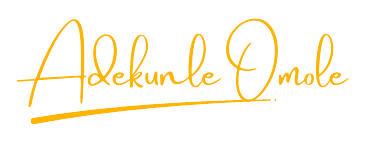
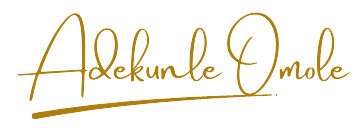
update

Changed region(s): [[0.0303, 0.0902, 0.9697, 0.9023]]

diff --git a/index.html b/index.html
@@ -75,11 +75,11 @@
             </p>
 
             <div class="hero-icons">
-                <svg xmlns="http://www.w3.org/2000/svg" viewBox="0 0 24 24"><path fill="#ffb400" d="M23.871 20.268c.085-.262.129-.474.129-.635V3.178c0-.128-.044-.205-.129-.231a1.1 1.1 0 0 0-.318-.04h-8.04V4.39h2.37v2.348h-2.37v.748h2.37v2.351h-2.37v.769h2.37v2.223h-2.37v.891h2.37v2.228h-2.37v.891h2.37v2.241h-2.37v1.635h8.04c.127-.039.233-.188.318-.447zm-1.361-1.19h-3.857v-2.239h3.857v2.239zm0-3.13h-3.857v-2.229h3.857v2.229zm0-3.12h-3.857v-2.213h3.857v2.213zm0-2.992h-3.857V7.488h3.857v2.348zm0-3.111h-3.857V4.392h3.857v2.333zM14.16.031 0 2.536v18.552l14.16 2.443V.031zM8.393 16.57c-.054-.146-.308-.764-.758-1.858-.449-1.093-.72-1.729-.799-1.911h-.025l-1.519 3.605-2.03-.137 2.408-4.488-2.205-4.487 2.07-.109 1.368 3.512h.027l1.545-3.671 2.139-.135-2.547 4.857 2.625 4.955-2.299-.133z" class="color217345 svgShape"></path></svg>
-                <svg xmlns="http://www.w3.org/2000/svg" viewBox="0 0 32 32"><path d="M28 12.378v10.386a2.982 2.982 0 0 1-1.423 2.552 2.988 2.988 0 0 1-2.919.132l-1.105-.553a1 1 0 0 1 .895-1.789l1.105.553c.451.226.83.044.973-.043a.993.993 0 0 0 .474-.852V12.378c0-.412-.259-.788-.644-.935l-17-6.476a.987.987 0 0 0-.923.112.987.987 0 0 0-.433.823V15a1 1 0 0 1-2 0V5.902a3 3 0 0 1 4.068-2.803l17 6.476A3.016 3.016 0 0 1 28 12.378zM18 11.5a1.5 1.5 0 0 0-1.5 1.5v15a1.5 1.5 0 1 0 3 0V13a1.5 1.5 0 0 0-1.5-1.5zm-4 2a1.5 1.5 0 0 0-1.5 1.5v11a1.5 1.5 0 1 0 3 0V15a1.5 1.5 0 0 0-1.5-1.5zm-4 2A1.5 1.5 0 0 0 8.5 17v7a1.5 1.5 0 1 0 3 0v-7a1.5 1.5 0 0 0-1.5-1.5zm-4 2A1.5 1.5 0 0 0 4.5 19v3a1.5 1.5 0 1 0 3 0v-3A1.5 1.5 0 0 0 6 17.5z" fill="#ffb400" class="color000 svgShape"></path></svg>
-                <svg xmlns="http://www.w3.org/2000/svg" viewBox="0 0 512 512"><path d="M242.69 340.3h26.62v-72.6h67v-25.82h-67v-72.6h-26.62v72.6h-66.15v25.82h66.15zM119.26 445.18h22.59v-64.54h59.7v-20.17h-59.7v-65.34h-22.59v65.34h-59.7v20.17h59.7zM370.15 212h22.59v-64.5h60.5v-19.37h-60.5V62.79h-22.59v65.34h-59.7v19.37h59.7zM246.72 496h19.36v-46h41.15v-16.92h-41.15v-46h-19.36v46h-40.33V450h40.33zM120.07 212h21v-65.31h60.51v-18.56H141V62.79h-21v65.34H59.56v18.56h60.51zm315.65 96.84h19.36v-45.18H496v-17.74h-40.92v-45.18h-19.36v45.18h-40.33v17.74h40.33z" fill="#ffb400" class="color000 svgShape"></path><path fill-rule="evenodd" d="M370.15 445.18h22.59v-64.54h60.5v-20.17h-60.5v-65.34h-22.59v65.34h-59.7v20.17h59.7Z" fill="#ffb400" class="color000 svgShape"></path><path d="M307 74.08V60.37h-40.34V16h-14.52v44.37h-40.33v13.71h40.33v44.37h14.52V74.08ZM56.11 305.61h14.52v-44.37H111v-13.71H70.63V204H56.11v43.56H16v14.52l40.11-.08Z" fill="#ffb400" class="color000 svgShape"></path></svg>
-                <svg xmlns="http://www.w3.org/2000/svg" viewBox="0 0 24 24"><path d="m11.727 0c-.967.001-1.914.086-2.834.248l.098-.014c-2.423.428-2.862 1.324-2.862 2.976v2.182h5.726v.727h-7.874c-.02 0-.043-.001-.066-.001-1.737 0-3.184 1.239-3.507 2.881l-.004.023c-.256.872-.403 1.874-.403 2.91s.147 2.038.422 2.985l-.019-.076c.407 1.695 1.379 2.902 3.04 2.902h1.969v-2.616c.045-1.953 1.622-3.523 3.574-3.557h.003 5.719c1.584-.013 2.863-1.299 2.863-2.885 0-.009 0-.017 0-.026v.001-5.452c-.104-1.561-1.314-2.81-2.848-2.975l-.014-.001c-.866-.149-1.863-.234-2.879-.234-.036 0-.071 0-.107 0h.005zm-3.096 1.755h.017c.603 0 1.091.489 1.091 1.091s-.489 1.091-1.091 1.091c-.601 0-1.089-.487-1.091-1.088 0-.002 0-.005 0-.008 0-.596.48-1.08 1.074-1.086h.001z" fill="#ffb400" class="color000 svgShape"></path><path d="m18.287 6.119v2.542c-.022 1.977-1.604 3.578-3.572 3.63h-.005-5.719c-1.584.033-2.856 1.322-2.862 2.909v5.453c0 1.551 1.349 2.464 2.862 2.91.855.277 1.839.437 2.86.437s2.005-.16 2.927-.456l-.068.019c1.44-.417 2.862-1.258 2.862-2.91v-2.184h-5.719v-.727h8.582c1.664 0 2.284-1.161 2.863-2.902.28-.87.441-1.871.441-2.91s-.161-2.04-.46-2.979l.019.07c-.411-1.656-1.2-2.902-2.863-2.902zm-3.216 13.807h.017c.603 0 1.091.489 1.091 1.091s-.489 1.091-1.091 1.091c-.603 0-1.091-.489-1.091-1.091 0-.001 0-.003 0-.004 0-.002 0-.005 0-.007 0-.595.48-1.077 1.074-1.08z" fill="#ffb400" class="color000 svgShape"></path></svg>
-                <svg xmlns="http://www.w3.org/2000/svg" viewBox="0 0 1792 1792"><path d="M896 768q237 0 443-43t325-127v170q0 69-103 128t-280 93.5-385 34.5-385-34.5T231 896 128 768V598q119 84 325 127t443 43zm0 768q237 0 443-43t325-127v170q0 69-103 128t-280 93.5-385 34.5-385-34.5-280-93.5-103-128v-170q119 84 325 127t443 43zm0-384q237 0 443-43t325-127v170q0 69-103 128t-280 93.5-385 34.5-385-34.5-280-93.5-103-128V982q119 84 325 127t443 43zM896 0q208 0 385 34.5t280 93.5 103 128v128q0 69-103 128t-280 93.5T896 640t-385-34.5T231 512 128 384V256q0-69 103-128t280-93.5T896 0z" fill="#ffb400" class="color000 svgShape"></path></svg>
+                <svg xmlns="http://www.w3.org/2000/svg" viewBox="0 0 24 24"><path fill="#af7f0d" d="M23.871 20.268c.085-.262.129-.474.129-.635V3.178c0-.128-.044-.205-.129-.231a1.1 1.1 0 0 0-.318-.04h-8.04V4.39h2.37v2.348h-2.37v.748h2.37v2.351h-2.37v.769h2.37v2.223h-2.37v.891h2.37v2.228h-2.37v.891h2.37v2.241h-2.37v1.635h8.04c.127-.039.233-.188.318-.447zm-1.361-1.19h-3.857v-2.239h3.857v2.239zm0-3.13h-3.857v-2.229h3.857v2.229zm0-3.12h-3.857v-2.213h3.857v2.213zm0-2.992h-3.857V7.488h3.857v2.348zm0-3.111h-3.857V4.392h3.857v2.333zM14.16.031 0 2.536v18.552l14.16 2.443V.031zM8.393 16.57c-.054-.146-.308-.764-.758-1.858-.449-1.093-.72-1.729-.799-1.911h-.025l-1.519 3.605-2.03-.137 2.408-4.488-2.205-4.487 2.07-.109 1.368 3.512h.027l1.545-3.671 2.139-.135-2.547 4.857 2.625 4.955-2.299-.133z" class="color217345 svgShape"></path></svg>
+                <svg xmlns="http://www.w3.org/2000/svg" viewBox="0 0 32 32"><path d="M28 12.378v10.386a2.982 2.982 0 0 1-1.423 2.552 2.988 2.988 0 0 1-2.919.132l-1.105-.553a1 1 0 0 1 .895-1.789l1.105.553c.451.226.83.044.973-.043a.993.993 0 0 0 .474-.852V12.378c0-.412-.259-.788-.644-.935l-17-6.476a.987.987 0 0 0-.923.112.987.987 0 0 0-.433.823V15a1 1 0 0 1-2 0V5.902a3 3 0 0 1 4.068-2.803l17 6.476A3.016 3.016 0 0 1 28 12.378zM18 11.5a1.5 1.5 0 0 0-1.5 1.5v15a1.5 1.5 0 1 0 3 0V13a1.5 1.5 0 0 0-1.5-1.5zm-4 2a1.5 1.5 0 0 0-1.5 1.5v11a1.5 1.5 0 1 0 3 0V15a1.5 1.5 0 0 0-1.5-1.5zm-4 2A1.5 1.5 0 0 0 8.5 17v7a1.5 1.5 0 1 0 3 0v-7a1.5 1.5 0 0 0-1.5-1.5zm-4 2A1.5 1.5 0 0 0 4.5 19v3a1.5 1.5 0 1 0 3 0v-3A1.5 1.5 0 0 0 6 17.5z" fill="#af7f0d" class="color000 svgShape"></path></svg>
+                <svg xmlns="http://www.w3.org/2000/svg" viewBox="0 0 512 512"><path d="M242.69 340.3h26.62v-72.6h67v-25.82h-67v-72.6h-26.62v72.6h-66.15v25.82h66.15zM119.26 445.18h22.59v-64.54h59.7v-20.17h-59.7v-65.34h-22.59v65.34h-59.7v20.17h59.7zM370.15 212h22.59v-64.5h60.5v-19.37h-60.5V62.79h-22.59v65.34h-59.7v19.37h59.7zM246.72 496h19.36v-46h41.15v-16.92h-41.15v-46h-19.36v46h-40.33V450h40.33zM120.07 212h21v-65.31h60.51v-18.56H141V62.79h-21v65.34H59.56v18.56h60.51zm315.65 96.84h19.36v-45.18H496v-17.74h-40.92v-45.18h-19.36v45.18h-40.33v17.74h40.33z" fill="#af7f0d" class="color000 svgShape"></path><path fill-rule="evenodd" d="M370.15 445.18h22.59v-64.54h60.5v-20.17h-60.5v-65.34h-22.59v65.34h-59.7v20.17h59.7Z" fill="#af7f0d" class="color000 svgShape"></path><path d="M307 74.08V60.37h-40.34V16h-14.52v44.37h-40.33v13.71h40.33v44.37h14.52V74.08ZM56.11 305.61h14.52v-44.37H111v-13.71H70.63V204H56.11v43.56H16v14.52l40.11-.08Z" fill="#af7f0d" class="color000 svgShape"></path></svg>
+                <svg xmlns="http://www.w3.org/2000/svg" viewBox="0 0 24 24"><path d="m11.727 0c-.967.001-1.914.086-2.834.248l.098-.014c-2.423.428-2.862 1.324-2.862 2.976v2.182h5.726v.727h-7.874c-.02 0-.043-.001-.066-.001-1.737 0-3.184 1.239-3.507 2.881l-.004.023c-.256.872-.403 1.874-.403 2.91s.147 2.038.422 2.985l-.019-.076c.407 1.695 1.379 2.902 3.04 2.902h1.969v-2.616c.045-1.953 1.622-3.523 3.574-3.557h.003 5.719c1.584-.013 2.863-1.299 2.863-2.885 0-.009 0-.017 0-.026v.001-5.452c-.104-1.561-1.314-2.81-2.848-2.975l-.014-.001c-.866-.149-1.863-.234-2.879-.234-.036 0-.071 0-.107 0h.005zm-3.096 1.755h.017c.603 0 1.091.489 1.091 1.091s-.489 1.091-1.091 1.091c-.601 0-1.089-.487-1.091-1.088 0-.002 0-.005 0-.008 0-.596.48-1.08 1.074-1.086h.001z" fill="#af7f0d" class="color000 svgShape"></path><path d="m18.287 6.119v2.542c-.022 1.977-1.604 3.578-3.572 3.63h-.005-5.719c-1.584.033-2.856 1.322-2.862 2.909v5.453c0 1.551 1.349 2.464 2.862 2.91.855.277 1.839.437 2.86.437s2.005-.16 2.927-.456l-.068.019c1.44-.417 2.862-1.258 2.862-2.91v-2.184h-5.719v-.727h8.582c1.664 0 2.284-1.161 2.863-2.902.28-.87.441-1.871.441-2.91s-.161-2.04-.46-2.979l.019.07c-.411-1.656-1.2-2.902-2.863-2.902zm-3.216 13.807h.017c.603 0 1.091.489 1.091 1.091s-.489 1.091-1.091 1.091c-.603 0-1.091-.489-1.091-1.091 0-.001 0-.003 0-.004 0-.002 0-.005 0-.007 0-.595.48-1.077 1.074-1.08z" fill="#af7f0d" class="color000 svgShape"></path></svg>
+                <svg xmlns="http://www.w3.org/2000/svg" viewBox="0 0 1792 1792"><path d="M896 768q237 0 443-43t325-127v170q0 69-103 128t-280 93.5-385 34.5-385-34.5T231 896 128 768V598q119 84 325 127t443 43zm0 768q237 0 443-43t325-127v170q0 69-103 128t-280 93.5-385 34.5-385-34.5-280-93.5-103-128v-170q119 84 325 127t443 43zm0-384q237 0 443-43t325-127v170q0 69-103 128t-280 93.5-385 34.5-385-34.5-280-93.5-103-128V982q119 84 325 127t443 43zM896 0q208 0 385 34.5t280 93.5 103 128v128q0 69-103 128t-280 93.5T896 640t-385-34.5T231 512 128 384V256q0-69 103-128t280-93.5T896 0z" fill="#af7f0d" class="color000 svgShape"></path></svg>
                               
 
             </div>

diff --git a/style.css b/style.css
@@ -13,8 +13,8 @@ body {
 
 /* COLOR DEFINITION */
 :root {
-    --yello: #FFB400;
-    --light-yellow: #FFB400F2;
+    --yello: #af7f0d;
+    --light-yellow: #a87d19;
     --grey: #2B2B2B;
     --light-grey: #767676;
     --white: #ffffff;
@@ -81,7 +81,7 @@ a span {
     font-weight: 500;
     line-height: 19px;
     font-size: 16px;
-    color: var(--grey);
+    color: var(--white);
     cursor: pointer;
 
     background-color: var(--yello);
@@ -94,7 +94,7 @@ a span {
     font-weight: 500;
     line-height: 19px;
     font-size: 16px;
-    color: var(--grey);
+    color: var(--yello);
     cursor: pointer;
 
     background-color: var(--white);
@@ -103,7 +103,7 @@ a span {
 }
 
 .pri-btn:hover, .sec-btn:hover {
-    transform: scale(1.1);
+    transform: translatey(-5px);
     transition: 1s;
 }
 
@@ -423,7 +423,7 @@ footer {
 
 /* ALL PROJECT PAGE STYLING */
 .project-hero, .contact-hero, .project-content-hero {
-    background-image: linear-gradient(to bottom, #ffb300de, #ffb300de),
+    background-image: linear-gradient(to bottom, #af7e0dc7, #af7e0dc7),
     url(/assets/project-bg.jpg);
 
     background-repeat: no-repeat;
@@ -435,7 +435,7 @@ footer {
 }
 
 .contact-hero {
-    background-image: linear-gradient(to bottom, #ffb300de, #ffb300de),
+    background-image: linear-gradient(to bottom, #af7e0dc7, #af7e0dc7),
     url(/assets/contact-bg.jpg);
 
     background-repeat: no-repeat;

diff --git a/projects/projects.css b/projects/projects.css
@@ -17,8 +17,8 @@ html {
 
 /* COLOR DEFINITION */
 :root {
-    --yello: #FFB400;
-    --light-yellow: #FFB400F2;
+    --yello: #af7f0d;
+    --light-yellow: #a87d19;
     --grey: #2B2B2B;
     --light-grey: #767676;
     --white: #ffffff;
@@ -30,7 +30,7 @@ html {
 /* HERO SECTION */
 
 .project-content-hero {
-    background-image: linear-gradient(to bottom, #ffb300de, #ffb300de),
+    background-image: linear-gradient(to bottom, #af7e0dc7, #af7e0dc7),
     url(/assets/project-pictures/projects-hero-bg.jpg);
 
     background-repeat: no-repeat;
@@ -50,6 +50,10 @@ article h2 {
 
 article ul {
     margin-left: 35px;
+}
+
+article ul li::marker {
+    color: var(--yello);
 }
 
 article span {
